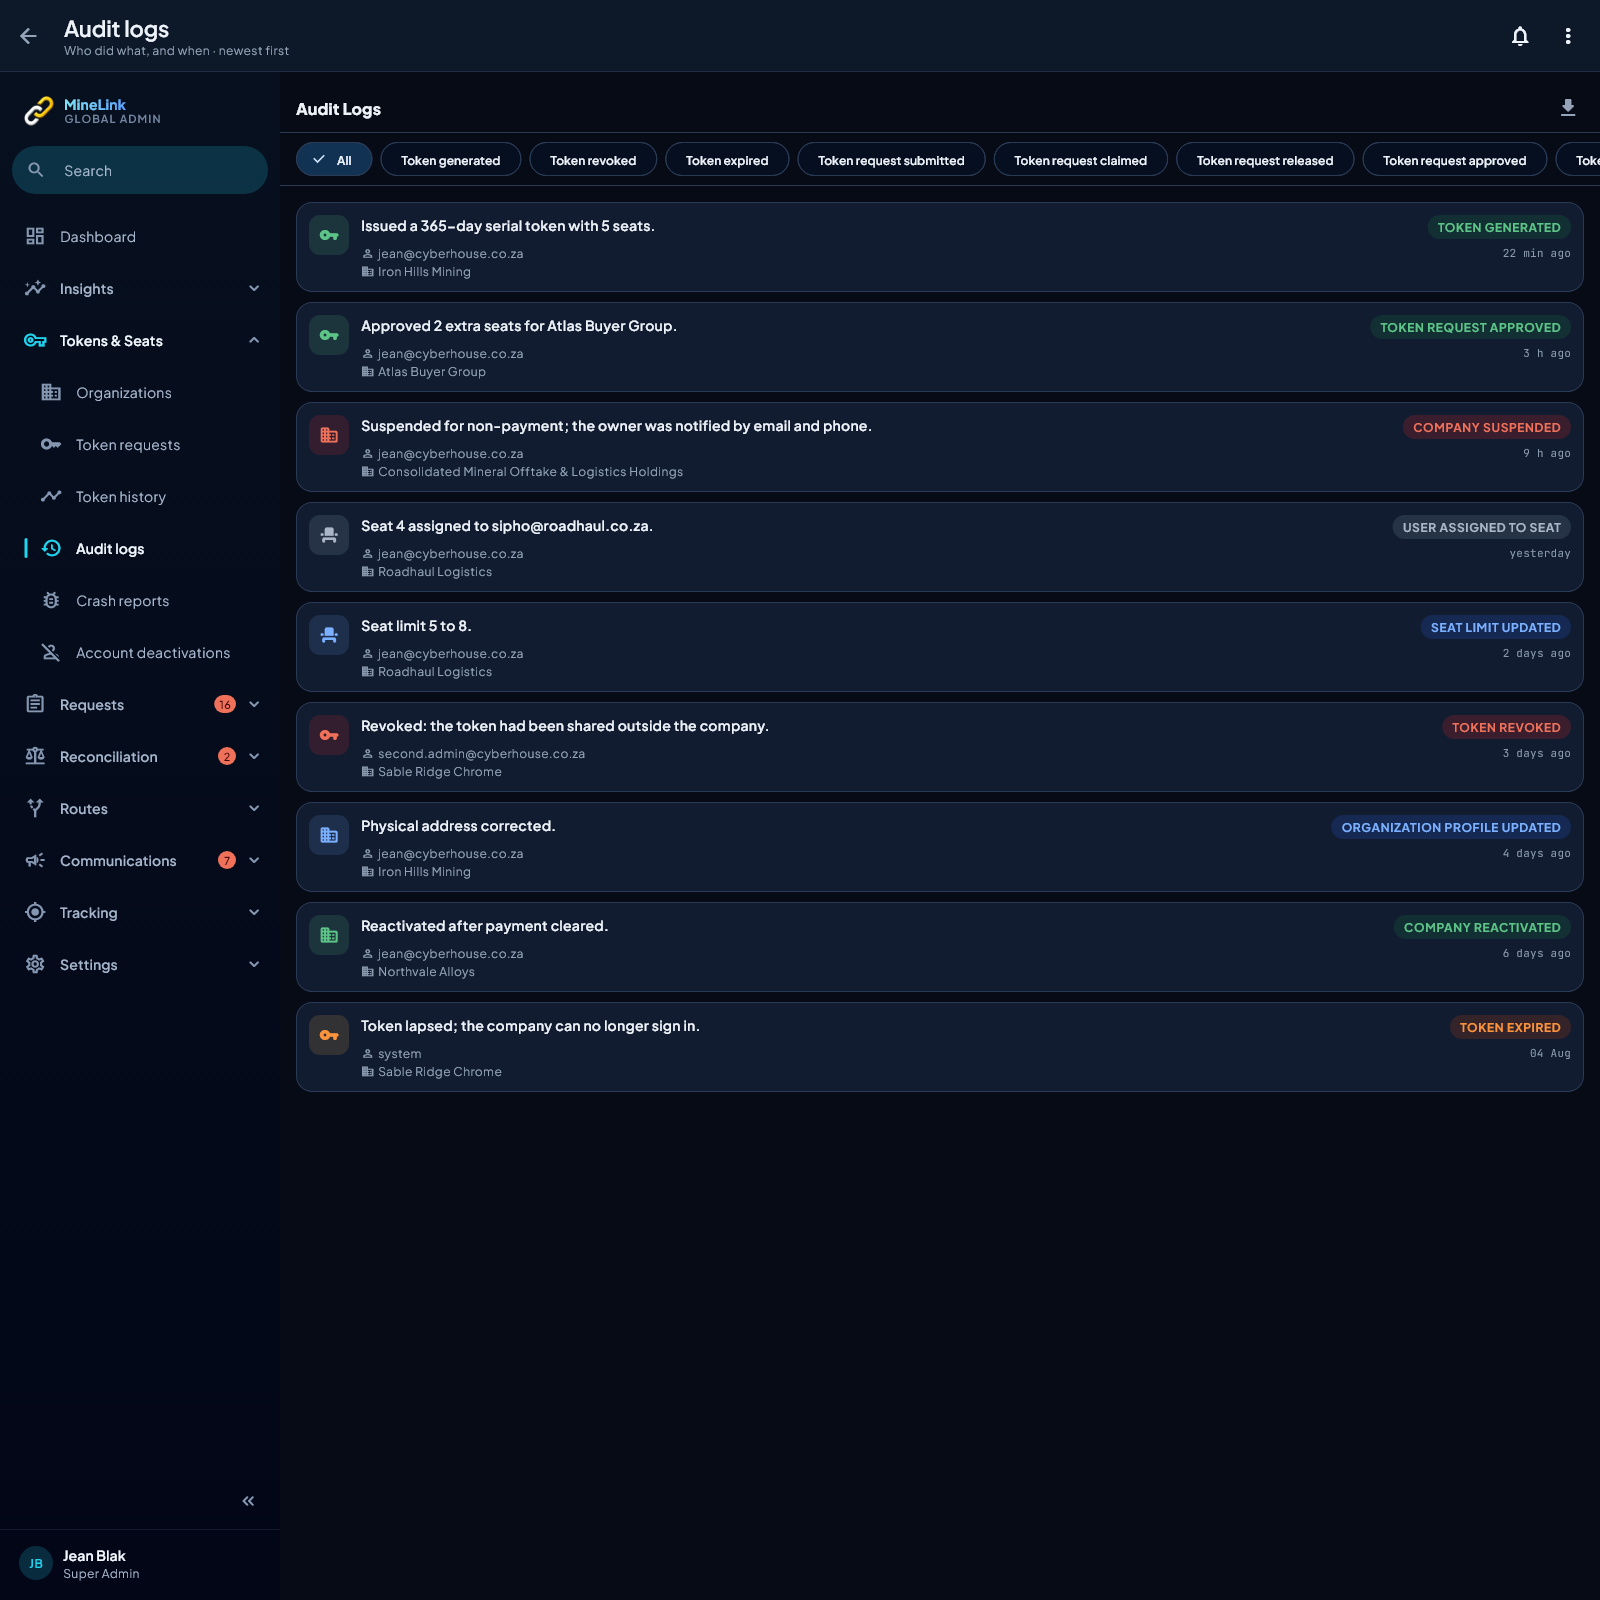
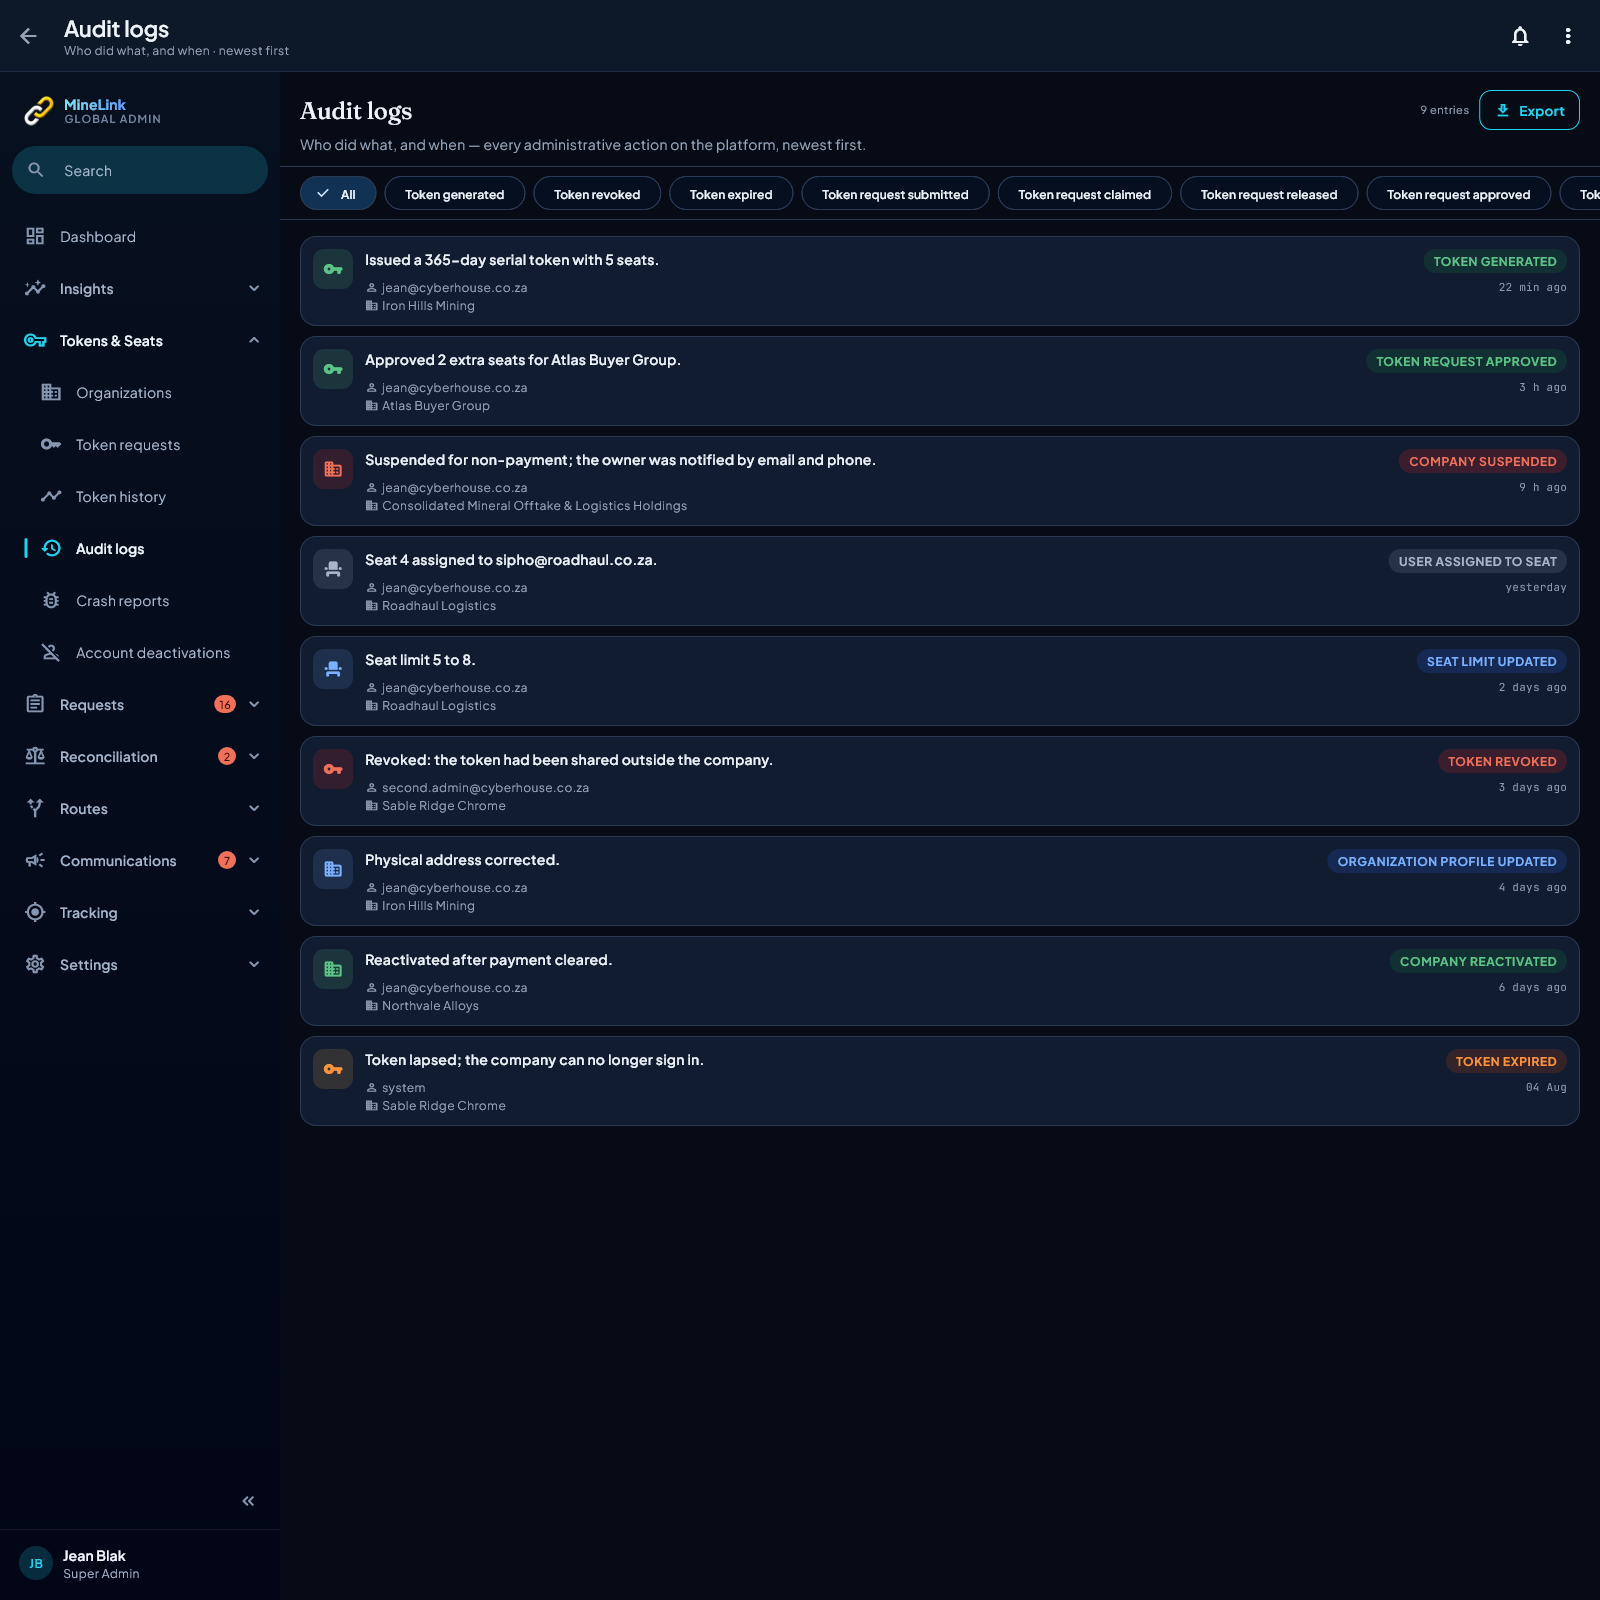
fix(console): audit logs opens in the shared page header
'Audit Logs' was 16px PlusJakartaSans ExtraBold set by hand — title-cased
against the app bar's 'Audit logs' — with a bare download icon beside it
and no description or count, while every other console screen opens in
the Fraunces display face through MlPageHeader. Phase 3 pass, 2026-08-23.
Now MlPageHeader: description, entry count as the right meta, Export as an
outline action (the margin ledger's shape); content padding 20.

Pinned in console_tail_test.dart (header present, title in
MlTokens.fontSerif, 'Audit Logs' gone, meta matches /^\d+ entr/);
sabotaged by stashing the screen: fails. Renders regenerated, looked at.

Changed region(s): [[0.1875, 0.0625, 1.0, 0.7188]]

diff --git a/lib/features/super_admin/screens/audit_logs_screen.dart b/lib/features/super_admin/screens/audit_logs_screen.dart
@@ -53,28 +53,34 @@ class _AuditLogsScreenState extends ConsumerState<AuditLogsScreen> {
     return Column(
       crossAxisAlignment: CrossAxisAlignment.stretch,
       children: [
+        // The shared page header, not a hand-rolled title: 'Audit Logs' was
+        // 16px PlusJakartaSans ExtraBold (and title-cased, against the app
+        // bar's 'Audit logs'), with a bare download icon beside it and no
+        // description or count — while every other console screen opens in
+        // the Fraunces display face through MlPageHeader. Found 2026-08-23
+        // in the Phase 3 pass.
         Padding(
-          padding: const EdgeInsets.fromLTRB(16, 12, 8, 0),
-          child: Row(
-            children: [
-              Expanded(
-                child: Text(
-                  'Audit Logs',
-                  style: context.mlText.titleMedium.copyWith(
-                    color: MlSemantic.of(context).textStrong,
-                    fontWeight: FontWeight.w800,
-                  ),
-                ),
-              ),
+          padding: const EdgeInsets.fromLTRB(20, 18, 20, 12),
+          child: MlPageHeader(
+            title: 'Audit logs',
+            description:
+                'Who did what, and when — every administrative action on the '
+                'platform, newest first.',
+            meta: logsAsync.valueOrNull == null
+                ? null
+                : mlCount(logsAsync.value!.length, 'entry', 'entries'),
+            padding: EdgeInsets.zero,
+            actions: [
               if (canExport)
-                logsAsync.when(
-                  data: (logs) => IconButton(
-                    icon: const Icon(Icons.download_rounded),
-                    tooltip: 'Export Logs',
-                    onPressed: () => AuditLogExporter.pickFormatAndExport(context, logs),
+                logsAsync.maybeWhen(
+                  data: (logs) => MlButton.outline(
+                    label: 'Export',
+                    icon: Icons.download_outlined,
+                    compact: true,
+                    onPressed: () =>
+                        AuditLogExporter.pickFormatAndExport(context, logs),
                   ),
-                  loading: () => const SizedBox.shrink(),
-                  error: (_, __) => const SizedBox.shrink(),
+                  orElse: () => const SizedBox.shrink(),
                 ),
             ],
           ),
@@ -84,7 +90,7 @@ class _AuditLogsScreenState extends ConsumerState<AuditLogsScreen> {
           height: 52,
           child: ListView(
             scrollDirection: Axis.horizontal,
-            padding: const EdgeInsets.symmetric(horizontal: 16, vertical: 8),
+            padding: const EdgeInsets.symmetric(horizontal: 20, vertical: 8),
             children: _actionTypes.map((type) {
               final isSelected =
                   type == 'All' ? _selectedActionType == null || _selectedActionType == 'All' : _selectedActionType == type;
@@ -125,7 +131,7 @@ class _AuditLogsScreenState extends ConsumerState<AuditLogsScreen> {
                 );
               }
               return ListView.builder(
-                padding: const EdgeInsets.all(16),
+                padding: const EdgeInsets.fromLTRB(20, 16, 20, 16),
                 itemCount: logs.length,
                 itemBuilder: (context, i) => _AuditLogCard(log: logs[i]),
               );

diff --git a/test/features/super_admin/console_tail_test.dart b/test/features/super_admin/console_tail_test.dart
@@ -168,6 +168,22 @@ void main() {
     });
   }
 
+  testWidgets('and the audit log opens in the shared page header',
+      (tester) async {
+    // 'Audit Logs' was 16px PlusJakartaSans ExtraBold set by hand, title-
+    // cased against the app bar's 'Audit logs', with a bare download icon
+    // and no description or count. Found 2026-08-23 in the Phase 3 pass.
+    await pump(tester, const AuditLogsScreen(), width: 1600, height: 1600);
+    final header = find.byType(MlPageHeader);
+    expect(header, findsOneWidget);
+    final title = tester.widget<Text>(
+        find.descendant(of: header, matching: find.text('Audit logs')));
+    expect(title.style?.fontFamily, MlTokens.fontSerif);
+    expect(find.text('Audit Logs'), findsNothing,
+        reason: 'the title is title-cased again');
+    expect(tester.widget<MlPageHeader>(header).meta, matches(r'^\d+ entr'));
+  });
+
   testWidgets('and the organisation on an audit entry ellipsises',
       (tester) async {
     await pump(tester, const AuditLogsScreen(), height: 2600);
